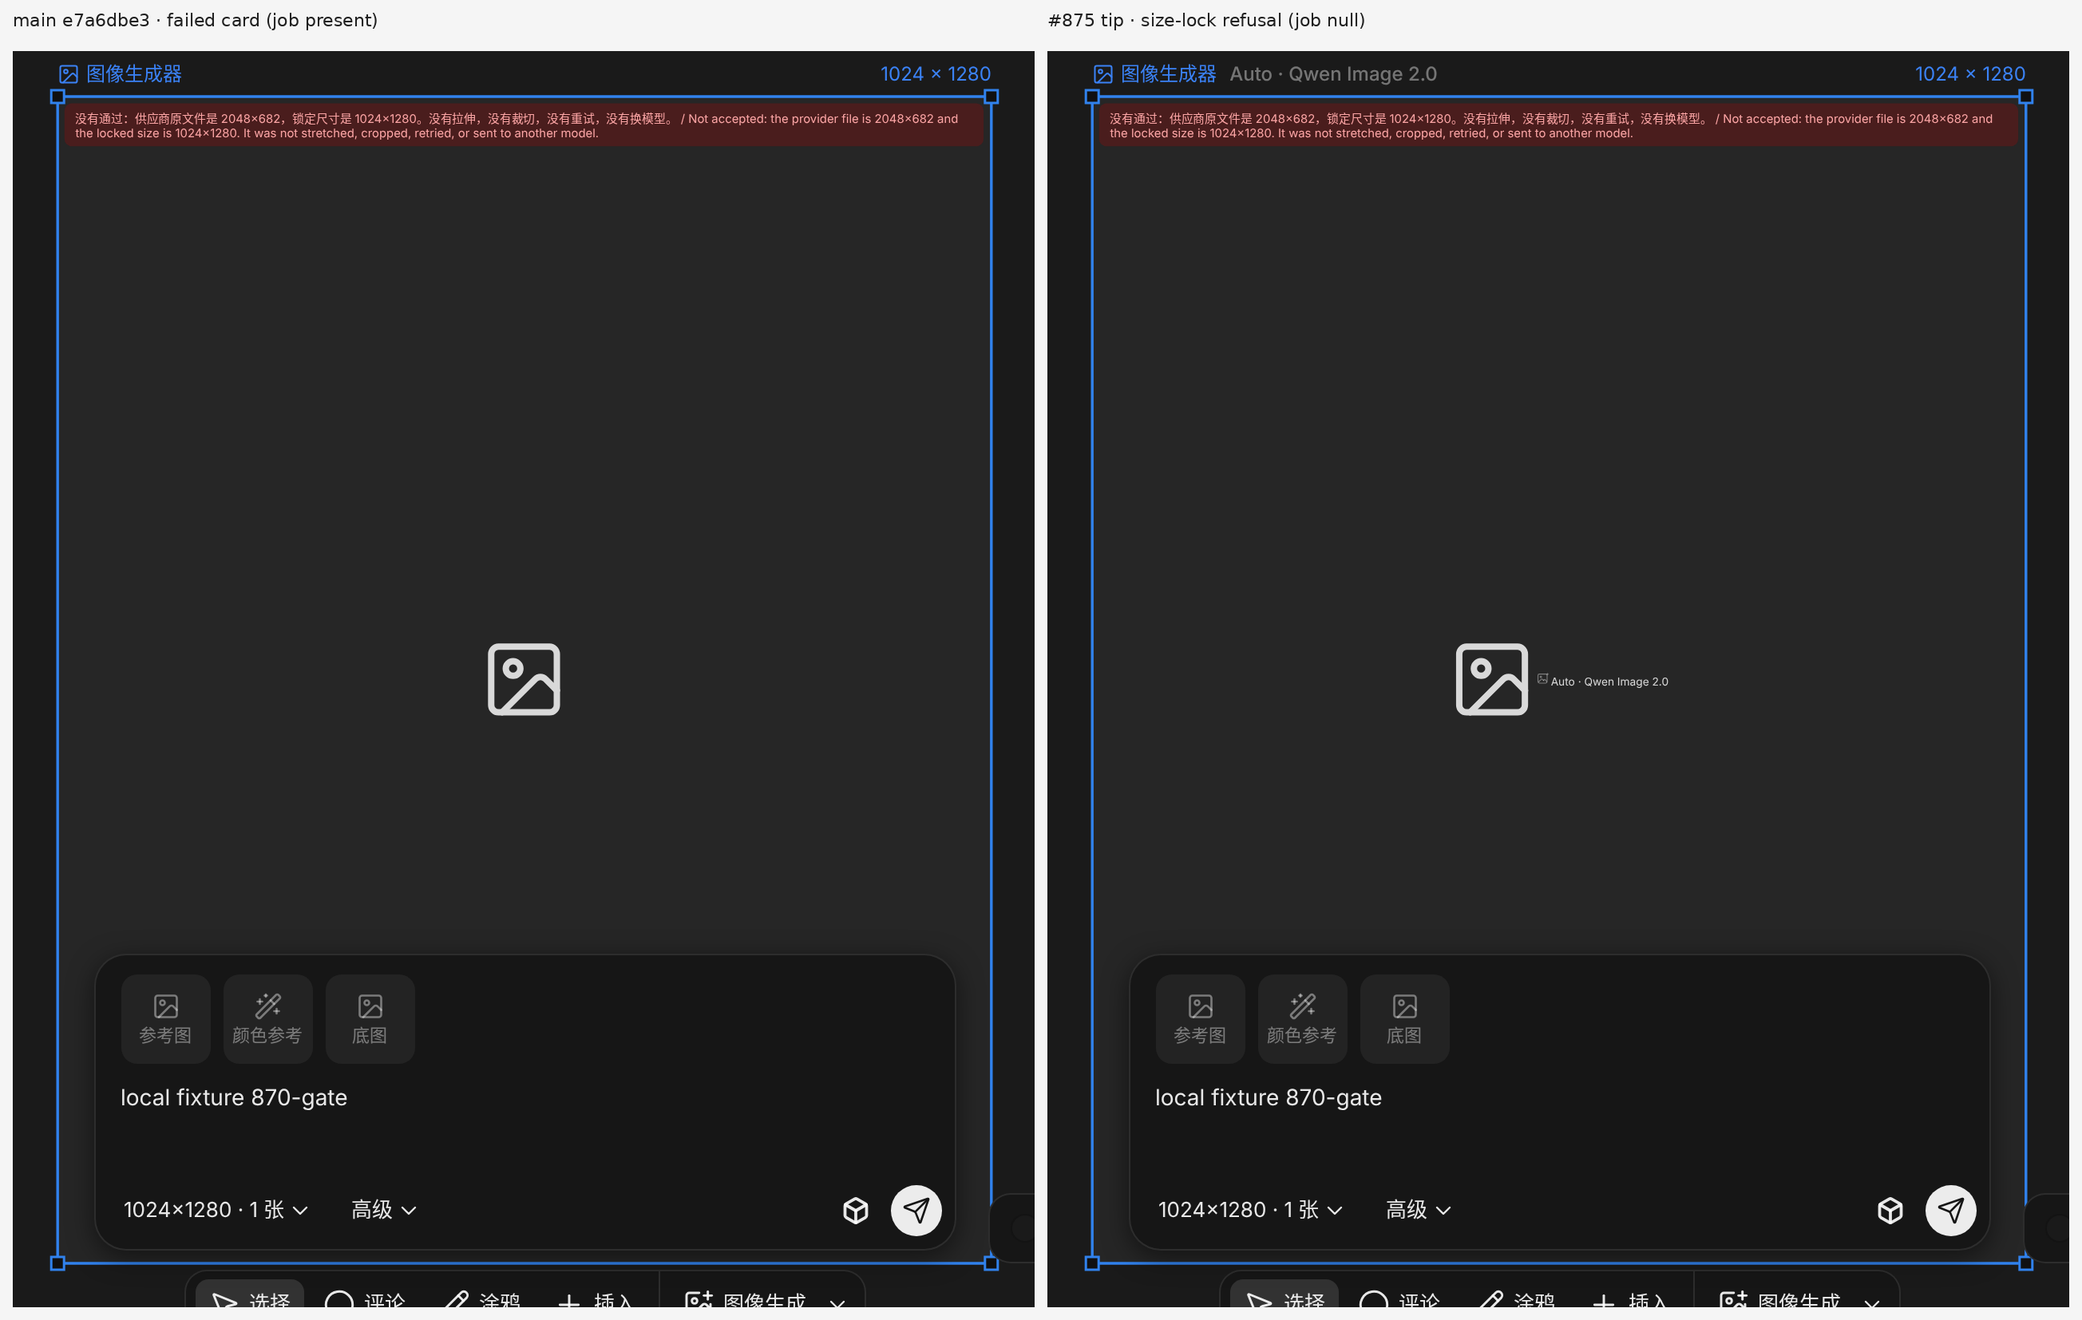
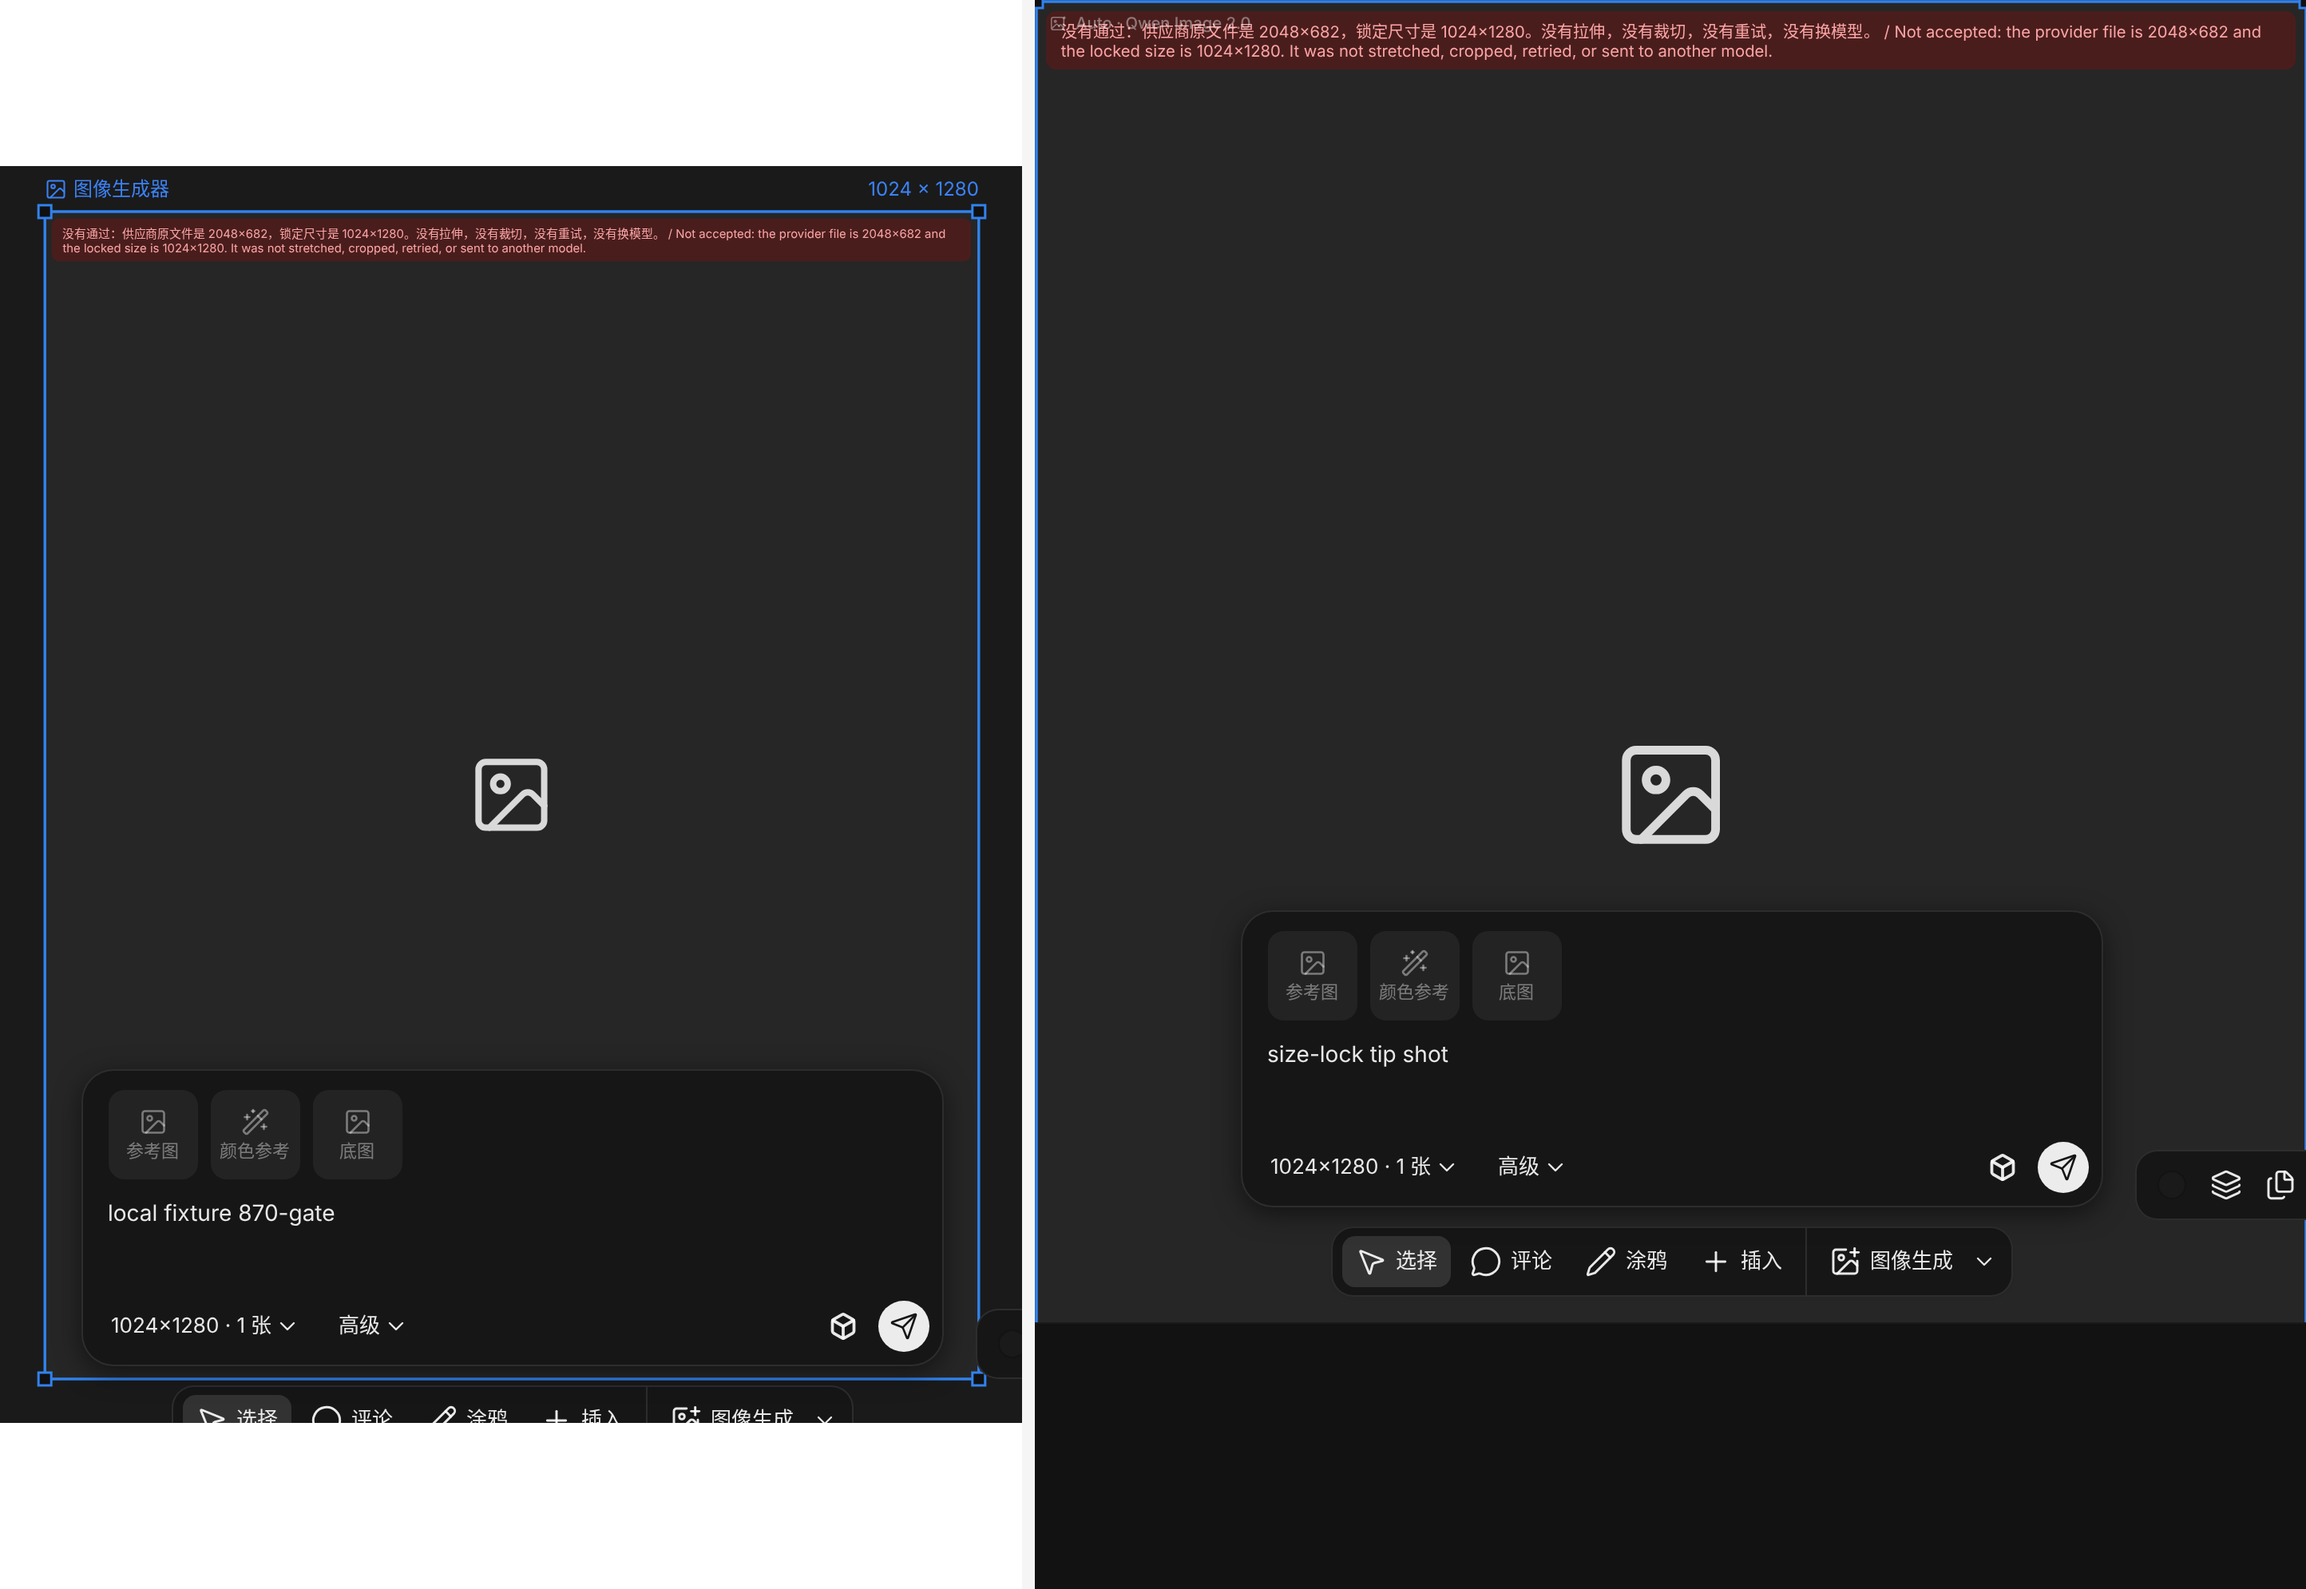
fix(#870): no-output Auto label layout + img leak guards ($0)
#871 CSS left .ca-gen-frame__model as a [data-pending] descendant, so
failed/refused cards parked Auto · name in-flow next to the placeholder
(looked like a broken <img> alt). Absolute-position the model row always.

E2E covers failed / null-job / size-lock refused: no empty-src <img>, no
model name in alt. Tighten deep-link ref count. Simulate a hidden skill
on the runtime Set so attach+notice stays covered while the product hide
list is empty after #812. Retake tip refusal + L/R collage.

diff --git a/tests/js/hide673/main.ts b/tests/js/hide673/main.ts
@@ -57,8 +57,31 @@ async function main() {
   }
   guard.requests = requests
   globalThis.fetch = realFetch
+  // #870: hide list empty after #812 — temporarily put one builtin on the Set so the
+  // banner + attach-refusal path stays covered ($0). Mutate the runtime Set only; array stays [].
+  const hideSet = S.HIDDEN_BUILTIN_SKILL_ID_SET as Set<string>
+  const probeId = 'yingzao'
+  hideSet.add(probeId)
+  const sim: Record<string, unknown> = {}
+  try {
+    for (const lg of ['zh', 'en'] as const) {
+      setLang(lg)
+      const skill = all.find((x) => x.id === probeId)!
+      S.skillNoticeAtom.set(null); S.skillAtom.set(null)
+      const attached = S.attachSkill(skill)
+      sim[lg] = {
+        attached,
+        chip: S.skillAtom.get()?.id ?? null,
+        notice: S.skillNoticeAtom.get(),
+        blocked: S.blockHiddenSkill(skill),
+        noticeCopy: S.hiddenSkillNotice(skill),
+      }
+    }
+  } finally {
+    hideSet.delete(probeId)
+  }
   setLang('zh')
-  console.log(JSON.stringify({ guard,
+  console.log(JSON.stringify({ guard, simulatedHidden: sim,
     hidden: S.HIDDEN_BUILTIN_SKILL_IDS, builtinAll: S.BUILTIN_SKILLS.map((s) => s.id), listed: listed.map((s) => s.id),
     chips, byChip, featured, agentList, hiddenReads, resolved, listedReadId: (listedRead as any).id, unknown,
   }))

diff --git a/src/styles/canvas.css b/src/styles/canvas.css
@@ -44,7 +44,9 @@
 /* #715 design: task-id line on its own line; the id never breaks mid-string, ellipsis if wider than the card (full id in title) */
 .ca-gen-card__error { white-space: pre-line; }
 .ca-gen-card__status { position: absolute; left: 8px; right: 8px; top: 8px; padding: 6px 12px; border-radius: 8px; background: var(--ca-field); color: var(--ca-text); font-size: 13px; overflow-wrap: anywhere; white-space: pre-line; }
-.ca-gen-card[data-pending] /* #825: Lovart-style model row (gray text + icon), not a colored capsule */
+/* #825/#870: Lovart-style model row (gray text + icon), not a colored capsule.
+   Absolute on every no-output card — never gate on [data-pending] (that made failed/refused
+   cards park Auto · name in-flow next to the placeholder, looking like a broken <img> alt). */
 .ca-gen-frame__model {
   position: absolute;
   left: 10px;

diff --git a/tests/test_e2e_skill_gen_card_no_output_img_870.py b/tests/test_e2e_skill_gen_card_no_output_img_870.py
@@ -1,0 +1,143 @@
+"""#870: when a gen card has no output, the DOM must not paint a broken <img>.
+
+Covers failed (job stub + error), recovering/null-job (job cleared + error), and
+size-lock refused. Mock WaveSpeed only, $0. Asserts: no <img> with empty/missing
+src inside .ca-gen-card, and no img alt contains the model short name.
+"""
+from __future__ import annotations
+
+import asyncio
+import os
+
+import pytest
+
+from test_e2e_skill_canvas_707 import QWEN, _png, app_url, mock_ws  # noqa: F401
+
+pw = pytest.importorskip("playwright.async_api")
+ROOT = __import__("pathlib").Path(__file__).resolve().parent.parent
+pytestmark = pytest.mark.skipif(not any((ROOT / "dist").glob("index.html")), reason="needs built dist/")
+
+W, H, WRONG = 1024, 1280, (2048, 682)
+MODEL_FRAG = "Qwen"  # short_name fragment from Auto · Qwen Image 2.0
+
+
+async def _open_gen(page, app_url):
+    await page.add_init_script(
+        "localStorage.setItem('comfyart.lang','zh'); localStorage.setItem('comfyart.e2e','1')"
+    )
+    await page.goto(app_url)
+    await page.wait_for_timeout(1000)
+    await page.mouse.click(28, 83)
+    await page.locator(".tl-canvas").wait_for(timeout=60000)
+    await page.wait_for_timeout(600)
+    if await page.locator(".ca-modal").count():
+        await page.locator(".ca-modal button").nth(-2).click()
+    await page.wait_for_function("() => window.__caEditor")
+    await page.get_by_role("button", name="图像生成").first.click()
+    await page.locator(".ca-gen__prompt").wait_for()
+    await page.evaluate(
+        """([w, h, model]) => {
+          const ed = window.__caEditor
+          const id = ed.getSelectedShapeIds()[0]
+          const shape = ed.getShape(id)
+          ed.updateShape({
+            id, type: 'generator',
+            props: { ...shape.props, prompt: 'no-output-img', resolution: 'custom', ratio: '4:5', cw: w, ch: h, w, h },
+            meta: { ...shape.meta, pixelSize: [w, h], sizeLockModel: model, quiet: false,
+              modelChoice: { auto: true, model, category: 'poster_text',
+                reason: { zh: '自动选择：海报/带字', en: 'Auto-picked: poster/text' } } },
+          })
+        }""",
+        [W, H, QWEN],
+    )
+
+
+async def _assert_no_output_img_leak(page, label: str):
+    info = await page.evaluate(
+        """(frag) => {
+          const card = document.querySelector('.ca-gen-card')
+          if (!card) return { err: 'no-card' }
+          const imgs = [...card.querySelectorAll('img')]
+          const empty = imgs.filter((i) => {
+            const s = i.getAttribute('src')
+            return s == null || !String(s).trim()
+          }).map((i) => i.outerHTML.slice(0, 160))
+          const named = imgs.filter((i) => {
+            const a = i.getAttribute('alt') || ''
+            return a.includes(frag) || /Auto\\s*·/.test(a)
+          }).map((i) => ({ alt: i.getAttribute('alt'), src: i.getAttribute('src') }))
+          const model = card.querySelector('[data-testid=auto-model-label]')
+          const modelPos = model ? getComputedStyle(model).position : null
+          return {
+            imgCount: imgs.length, empty, named, modelPos,
+            hasError: !!card.querySelector('.ca-gen-card__error'),
+            modelText: model ? (model.textContent || '').trim() : null,
+          }
+        }""",
+        MODEL_FRAG,
+    )
+    assert info.get("err") is None, (label, info)
+    assert info["empty"] == [], (label, info)
+    assert info["named"] == [], (label, info)
+    # after #870 CSS fix the Auto row stays absolute (not in-flow "alt" next to the icon)
+    if info.get("modelText"):
+        assert info["modelPos"] == "absolute", (label, info)
+
+
+@pytest.mark.asyncio
+async def test_no_output_states_have_no_broken_img_or_model_alt(app_url, mock_ws):  # noqa: F811
+    mock_ws["png"] = _png(*WRONG, (20, 20, 20), "wrong")
+    async with pw.async_playwright() as p:
+        browser = await p.chromium.launch()
+        page = await browser.new_page(viewport={"width": 1440, "height": 900})
+        await _open_gen(page, app_url)
+
+        # --- refused (real size-lock path → job null + error) ---
+        before = len(mock_ws["submits"])
+        await page.locator(".ca-gen__send").click()
+        for _ in range(300):
+            if len(mock_ws["submits"]) > before and await page.locator(".ca-gen-card__error").count():
+                break
+            await asyncio.sleep(0.1)
+        assert await page.locator(".ca-gen-card__error").count() >= 1
+        text = await page.locator(".ca-gen-card__error").inner_text()
+        assert "没有通过" in text
+        await _assert_no_output_img_leak(page, "refused")
+
+        # --- recovering / null-job (explicit clear; size-lock already cleared job) ---
+        await page.evaluate(
+            """() => {
+              const ed = window.__caEditor
+              const id = [...ed.getCurrentPageShapes()].find((s) => s.type === 'generator').id
+              const shape = ed.getShape(id)
+              ed.updateShape({ id, type: 'generator', meta: { ...shape.meta, job: null } })
+              const atom = window.__caResultsAtom
+              if (atom) {
+                const cur = atom.get()[id] || { srcs: [] }
+                atom.update((r) => ({ ...r, [id]: { ...cur, srcs: [], error: cur.error || 'recovering probe' } }))
+              }
+            }"""
+        )
+        await page.wait_for_timeout(200)
+        await _assert_no_output_img_leak(page, "recovering-null-job")
+
+        # --- failed (job stub re-attached + error, still no output) ---
+        await page.evaluate(
+            """() => {
+              const ed = window.__caEditor
+              const id = [...ed.getCurrentPageShapes()].find((s) => s.type === 'generator').id
+              const shape = ed.getShape(id)
+              ed.updateShape({
+                id, type: 'generator',
+                meta: { ...shape.meta, job: { id: 'fail-probe', phase: 'running' } },
+              })
+              const atom = window.__caResultsAtom
+              if (atom) {
+                atom.update((r) => ({ ...r, [id]: { srcs: [], error: '生成失败 / Generation failed' } }))
+              }
+            }"""
+        )
+        await page.wait_for_timeout(200)
+        # with job running, icon may hide; error must still not introduce a broken img
+        await _assert_no_output_img_leak(page, "failed")
+        await browser.close()

diff --git a/tests/test_auto_pill_825.py b/tests/test_auto_pill_825.py
@@ -144,8 +144,14 @@ def test_frontend_auto_pill_mirrors_backend():
     assert "data-testid=\"auto-model-label\"" in chat or "auto-model-label" in chat
     gen = (ROOT / "src/shapes/GeneratorShape.tsx").read_text()
     assert "ca-gen-frame__model" in gen and "autoPillLabel" in gen
-    # Not a colored capsule for the model row
-    assert "ca-gen-frame__model" in (ROOT / "src/styles/canvas.css").read_text()
+    # Not a colored capsule for the model row; absolute on every card (not gated on [data-pending] — #870)
+    css = (ROOT / "src/styles/canvas.css").read_text()
+    assert "ca-gen-frame__model" in css
+    block = css.split(".ca-gen-frame__model {", 1)[1].split("}", 1)[0]
+    assert "position: absolute" in block
+    # selector must not be a descendant of [data-pending] (that leaked Auto · name as in-flow "alt")
+    before = css.split(".ca-gen-frame__model {", 1)[0].rstrip()
+    assert not before.endswith("[data-pending]") and ".ca-gen-card[data-pending]" not in before[-80:]
 
 
 def test_resolve_model_choice_auto_and_manual(catalog):

diff --git a/tests/test_e2e_regression_644.py b/tests/test_e2e_regression_644.py
@@ -293,7 +293,7 @@ async def test_hidden_skill_deep_link_refs_composer_only(app_url, mock_ws, fake_
         caps = pg.get_by_test_id("composer-capsule")
         canvas = await pg.locator('.tl-shape[data-shape-type="image"], .tl-shape[data-shape-type="video"]').count()
         cap_n = await caps.count()
-        assert cap_n + canvas >= 1, (cap_n, canvas)  # refs surfaced somewhere
+        assert cap_n + canvas == len(REF_FILES), (cap_n, canvas, len(REF_FILES))  # every deep-link ref surfaced
         await _shot(pg, f"notice-refs-{lang}-{theme}")
         # listed ask= auto-sends via /bot/.../send (expected); still no WaveSpeed/KIE upstream ($0)
         assert not [u for u in reqs if any(k in u for k in ("wavespeed", "kie"))], reqs

diff --git a/tests/test_skills_hide_673.py b/tests/test_skills_hide_673.py
@@ -161,6 +161,17 @@ def test_agent_read_of_hidden_skill_by_id_is_not_an_error_733(lang) -> None:
     assert report()["guard"][lang].get("readErr") is None
 
 
+@needs_node
+@pytest.mark.parametrize("lang", ["zh", "en"])
+def test_simulated_hidden_skill_attach_shows_notice_870(lang) -> None:
+    """#870: hide list empty after #812 — harness temporarily adds yingzao to the Set so
+    attachSkill / blockHiddenSkill / notice copy stay covered ($0). Not a product hide."""
+    g = report()["simulatedHidden"][lang]
+    assert g["attached"] is False and g["chip"] is None
+    assert g["blocked"] is True
+    assert g["notice"] == COPY[lang] and g["noticeCopy"] == COPY[lang]
+
+
 SRC = ROOT / "src"
 
 
